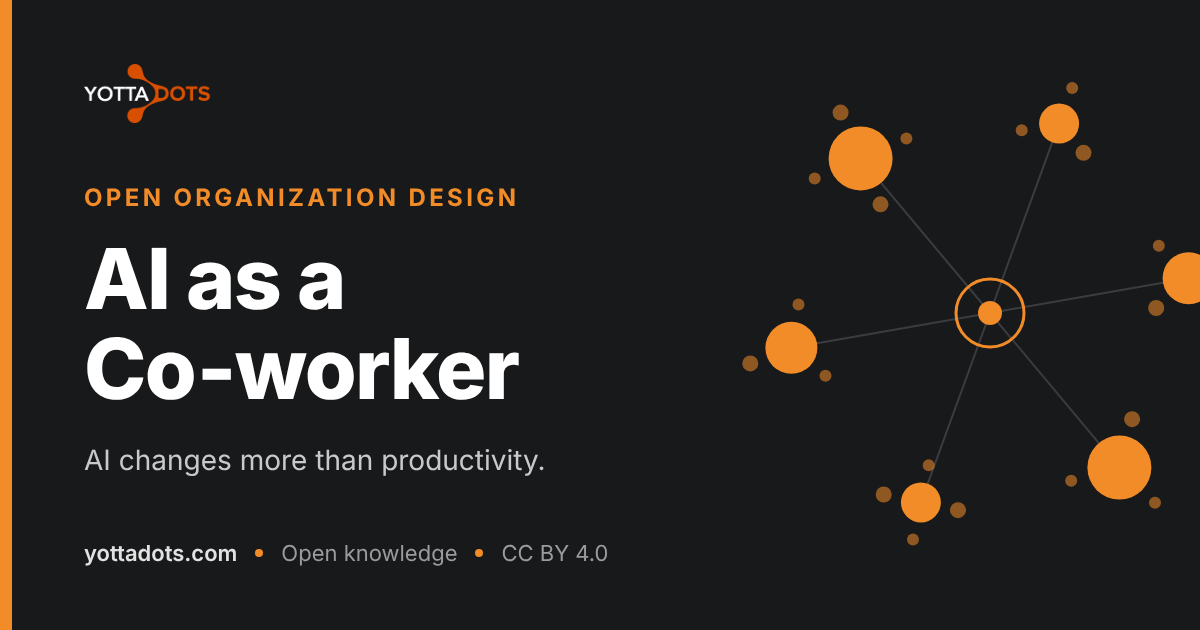
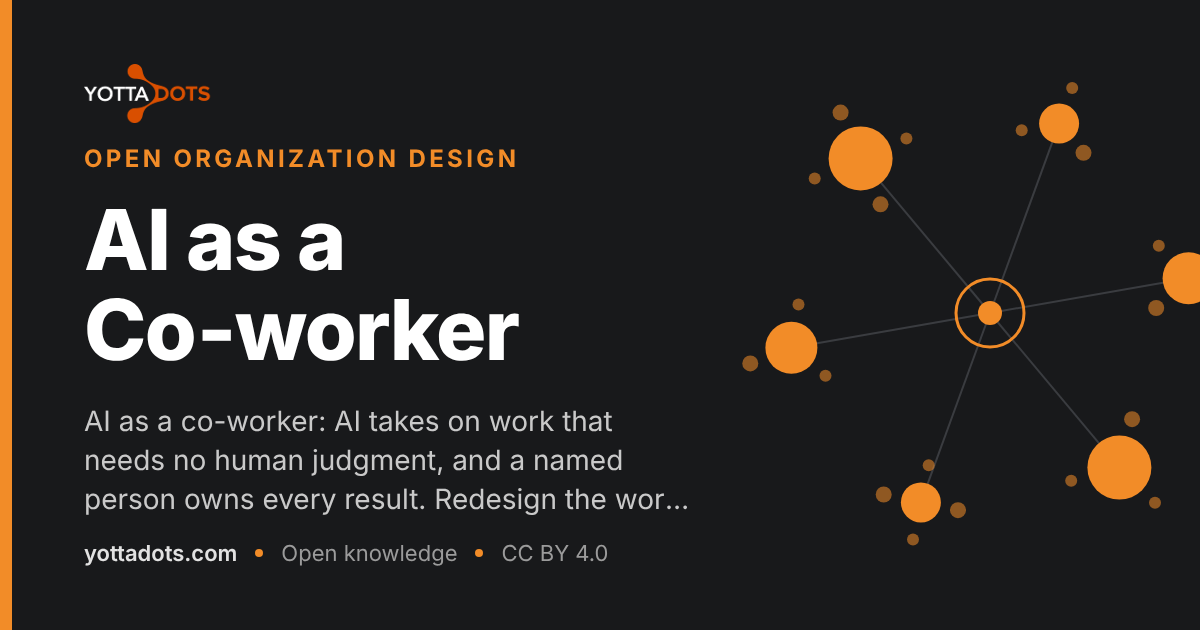
About page, contact address, and descriptions for all pages
- About YottaDots (Why section): the founder's story, what YottaDots
  does, AI as a co-worker, open and young, contact; photo excluded from
  CC BY. Linked in navbar and footer (About, Contact).
- TRADEMARKS.md: contact via hello@yottadots.com instead of the old site.
- Descriptions for the 9 pages that had none, so share cards read well.

Claude-Session: https://claude.ai/code/session_01WDc2s6KT2reEYBWP1nXUw5

Changed region(s): [[0.0617, 0.3016, 0.5242, 0.754], [0.0617, 0.7841, 0.555, 0.8143], [0.0617, 0.2111, 0.4317, 0.2714]]

diff --git a/docusaurus.config.js b/docusaurus.config.js
@@ -107,6 +107,11 @@ const config = {
           position: 'left',
         },
         {
+          to: '/docs/why/about',
+          label: 'About',
+          position: 'right',
+        },
+        {
           href: 'https://github.com/YottaDots/yottadots.com',
           label: 'GitHub',
           position: 'right',
@@ -143,6 +148,14 @@ const config = {
             {
               label: 'AI Co-worker',
               to: '/docs/ai-coworker',
+            },
+            {
+              label: 'About',
+              to: '/docs/why/about',
+            },
+            {
+              label: 'Contact',
+              href: 'mailto:hello@yottadots.com',
             },
           ],
         },

diff --git a/sidebars.js b/sidebars.js
@@ -6,6 +6,7 @@ module.exports = {
       items: [
         'why/index',
         'why/manifesto',
+        'why/about',
       ],
     },
 

diff --git a/docs/why/about.md b/docs/why/about.md
@@ -1,0 +1,81 @@
+---
+title: About YottaDots
+sidebar_label: About
+description: Why Willem-Peter Perquin started YottaDots, what it is for, and how to get in touch. An open framework, still young, looking for organizations that want to try it.
+image: /img/social/why-about.png
+---
+
+# About YottaDots
+
+<img src={require('@site/static/img/about/willem-peter-perquin.jpg').default} alt="Willem-Peter Perquin, founder of YottaDots" width="160" height="160" style={{borderRadius: '50%', float: 'right', marginLeft: '1.5rem', marginBottom: '1rem'}} />
+
+## Why I started YottaDots
+
+Working in and with many organizations, I kept running into the same
+problems:
+
+- **Decisions are not made, or made too late.**
+- **The top does not see the real work:** what it takes, how long it takes,
+  what technology makes possible.
+- **People are talked about, not talked with.**
+- **Information gets softer on its way up.** It is burning in the basement,
+  the top hears that it is getting warm downstairs, and orders an air
+  conditioner.
+- **More and more measuring,** to feel in control.
+- **Hiring more managers when there is a problem,** when a conversation, some
+  trust and a good decision would solve it.
+- **Valuable work has to fight for every penny,** while projects nobody needs
+  get the dime.
+
+## Looking for a better way
+
+I studied other methods and frameworks. SAFe has good ideas, but why should
+it cover the whole company? How would marketing or sales work in Scrum? Have
+you ever seen a shipyard work in Scrum? I would be curious what that looks
+like.
+
+What I learned is that the people doing the work can best decide how to do
+it: Scrum, Kanban, projects, or a good old planning board. What counts is the
+result, not the route. Somewhere along the way many organizations lost that.
+The method, the framework or the role became more important than the
+outcome.
+
+## What YottaDots does
+
+YottaDots is my answer: a federative way of organizing.
+
+- **The centre decides the what:** clear choices and ranked priorities.
+- **Value streams decide the how,** because they know the work.
+- **Guardrails apply to everyone:** laws, security, quality of work, and
+  measurement, so everything stays visible.
+- **The outcome counts,** not the activity.
+
+Read more in [Why YottaDots?](./index.md) and
+[The YottaDots Method](../method/index.md), or see everything on one page in
+[The Big Picture](../method/big-picture.md).
+
+## AI as a co-worker
+
+I see AI taking over more and more of the work that exists to coordinate
+other work: collecting, reporting, passing information on. Much of what
+middle management does today. As a co-worker, AI can often do that faster,
+better and at lower cost. People remain needed, and accountable, for the
+human side of work: judgment, trust, relationships and care.
+
+## Open, and still young
+
+YottaDots is open: free to use under [CC BY 4.0](../community/license.md),
+and built together [on GitHub](https://github.com/YottaDots/yottadots.com). It
+is also young (v0.1), and its patterns have not yet been tested in practice.
+If you would like to try it in your organization, I would like to hear from
+you.
+
+## Contact
+
+**Willem-Peter Perquin**, founder
+
+- Email: [hello@yottadots.com](mailto:hello@yottadots.com)
+- LinkedIn: [linkedin.com/in/perquin](https://nl.linkedin.com/in/perquin)
+
+<small>The photo is © Willem-Peter Perquin, all rights reserved, and is not
+covered by the CC BY 4.0 license of this site.</small>

diff --git a/docs/method/index.md b/docs/method/index.md
@@ -2,6 +2,7 @@
 id: index
 title: The YottaDots Method
 sidebar_label: Introduction
+description: The YottaDots method in four rules: the centre decides the what, value streams decide the how, with three safeguards that make it a federation.
 image: /img/social/method.png
 ---
 

diff --git a/TRADEMARKS.md b/TRADEMARKS.md
@@ -58,5 +58,4 @@ organisations. It is not part of this website or repository.
 
 ## Questions and permission
 
-To ask for permission, or to report misuse, contact the maintainer via
-https://yottadots.com.
+To ask for permission, or to report misuse, email hello@yottadots.com.

diff --git a/docs/ai-coworker/index.md b/docs/ai-coworker/index.md
@@ -1,6 +1,7 @@
 ---
 id: index
 title: AI as a Co-worker
+description: AI as a co-worker: AI takes on work that needs no human judgment, and a named person owns every result. Redesign the work, do not just add AI to it.
 image: /img/social/ai-coworker.png
 ---
 

diff --git a/docs/ai-coworker/how-we-use-ai.md b/docs/ai-coworker/how-we-use-ai.md
@@ -1,6 +1,7 @@
 ---
 title: How YottaDots uses AI
 sidebar_label: How we use AI
+description: How AI helps build this website, what humans decide, and how you can see which changes were made with AI.
 image: /img/social/ai-coworker-how-we-use-ai.png
 ---
 

diff --git a/docs/community/visuals.md b/docs/community/visuals.md
@@ -1,6 +1,7 @@
 ---
 title: How we make visuals
 sidebar_label: Visuals
+description: How YottaDots visuals are made: drafted by AI as code, reviewed by a human, in one style, free to reuse under CC BY 4.0.
 image: /img/social/community-visuals.png
 ---
 

diff --git a/docs/community/contribute.md b/docs/community/contribute.md
@@ -1,5 +1,6 @@
 ---
 title: Contribute
+description: How to contribute to YottaDots: suggest an improvement or propose a pattern without technical knowledge, or edit pages directly on GitHub.
 image: /img/social/community-contribute.png
 ---
 

diff --git a/docs/community/license.md b/docs/community/license.md
@@ -1,5 +1,6 @@
 ---
 title: License & Trademarks
+description: YottaDots content is free to use under CC BY 4.0, also commercially, with attribution. The name and logo are not licensed.
 image: /img/social/community-license.png
 ---
 

diff --git a/docs/canvases/index.md b/docs/canvases/index.md
@@ -1,6 +1,7 @@
 ---
 id: index
 title: Canvases
+description: Canvases turn the YottaDots rules and patterns into workshop tools. The first one, the central list canvas, is in development.
 image: /img/social/canvases.png
 ---
 

diff --git a/docs/community/index.md b/docs/community/index.md
@@ -1,6 +1,7 @@
 ---
 id: index
 title: Community
+description: YottaDots is built in the open. Use it, challenge it, propose patterns, share examples and help improve the framework.
 image: /img/social/community.png
 ---
 
